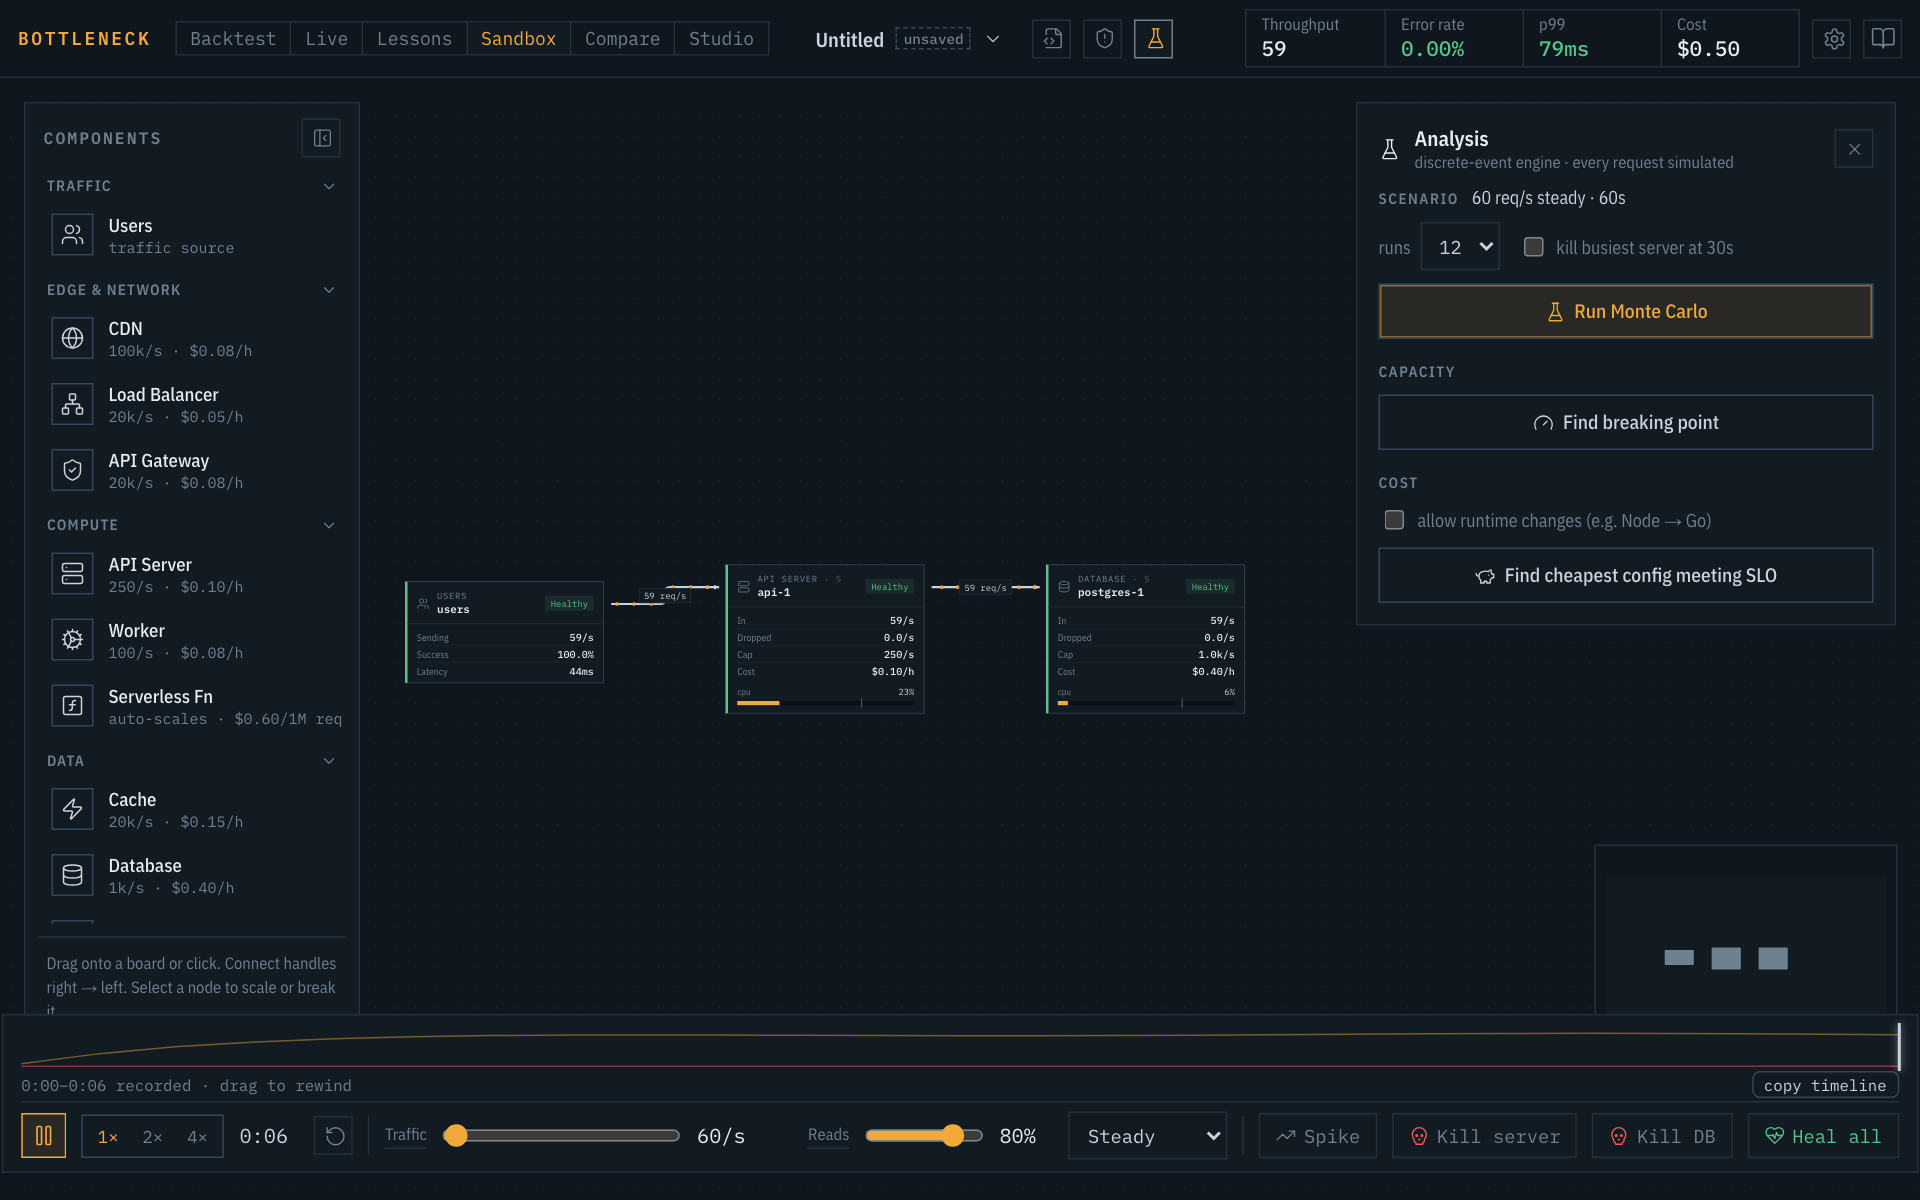
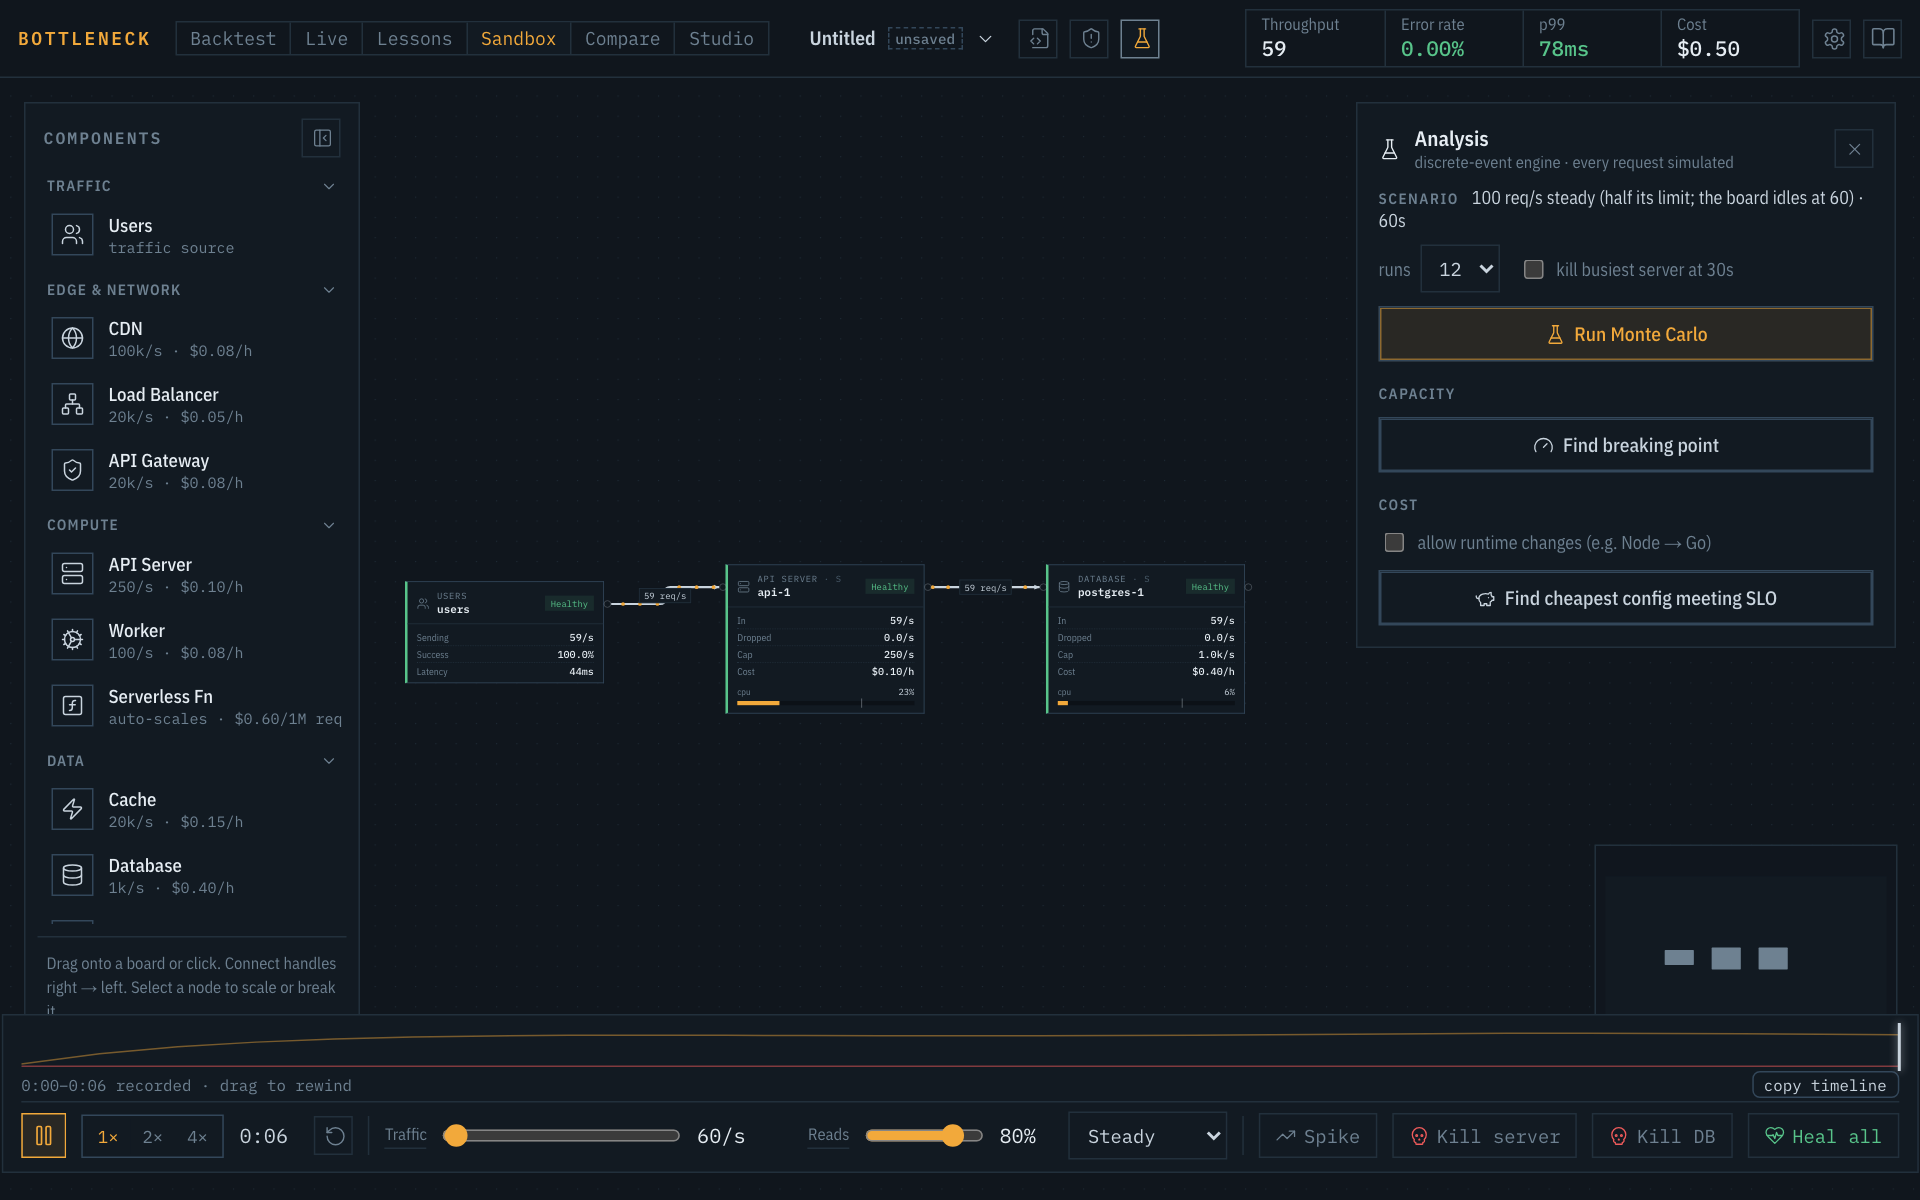
Analysis: runs at a meaningful load when the board idles
Monte Carlo and the cost optimizer ran at the board's idle 60 req/s, where every design meets
the SLO and the "cheapest config" was one instance that would collapse at real load. Below 100
req/s they now run at half the design's breaking point (fluid search, instant), and the
scenario line says so: "830 req/s steady (half its limit; the board idles at 60)".

Changed region(s): [[0.7188, 0.1542, 0.9688, 0.5242], [0.5625, 0.0, 0.625, 0.0617], [0.4375, 0.0308, 0.4688, 0.0617]]

diff --git a/public/docs/audit.html b/public/docs/audit.html
@@ -49,13 +49,13 @@
 </section>
 
 <section class="screen" data-shot="analysis">
-<figure class="shot"><div class="shot-frame"><a class="shot-full" href="shots/analysis.png" target="_blank" rel="noopener" title="Open full size"><img src="shots/analysis.png" width="1280" height="800" alt="Analysis — screenshot" loading="lazy"></a><a class="pin" href="#analysis-montecarlo" data-for="analysis-montecarlo" style="left:71.02%;top:25.96%" aria-label="Note 1">1</a><a class="pin" href="#analysis-breaking" data-for="analysis-breaking" style="left:71.02%;top:35.21%" aria-label="Note 2">2</a><a class="pin" href="#analysis-cheapest" data-for="analysis-cheapest" style="left:71.02%;top:47.96%" aria-label="Note 3">3</a></div></figure>
+<figure class="shot"><div class="shot-frame"><a class="shot-full" href="shots/analysis.png" target="_blank" rel="noopener" title="Open full size"><img src="shots/analysis.png" width="1280" height="800" alt="Analysis — screenshot" loading="lazy"></a><a class="pin" href="#analysis-montecarlo" data-for="analysis-montecarlo" style="left:71.02%;top:27.84%" aria-label="Note 1">1</a><a class="pin" href="#analysis-breaking" data-for="analysis-breaking" style="left:71.02%;top:37.09%" aria-label="Note 2">2</a><a class="pin" href="#analysis-cheapest" data-for="analysis-cheapest" style="left:71.02%;top:49.84%" aria-label="Note 3">3</a></div></figure>
 <div class="notes">
 <div>
 <h2>Analysis</h2>
 <p>The discrete-event engine: every request simulated, so tails, retry storms and breaker oscillation emerge rather than being approximated.</p>
 <ol class="pins">
-<li id="analysis-montecarlo" data-n="1"><h3>Monte Carlo</h3><p>Many seeded runs of the current traffic (optionally killing the busiest server halfway): p50, p99, p99.9, errors and cost with 95% confidence intervals, and the share of runs that meet the SLO.</p></li>
+<li id="analysis-montecarlo" data-n="1"><h3>Monte Carlo</h3><p>Many seeded runs of the board's traffic, or, when the board idles below 100 req/s, of half what the design can take (the scenario line says which), optionally killing the busiest server halfway: p50, p99, p99.9, errors and cost with 95% confidence intervals, and the share of runs that meet the SLO.</p></li>
 <li id="analysis-breaking" data-n="2"><h3>Breaking point</h3><p>The most req/s it serves within the SLO, and the component that limits it.</p></li>
 <li id="analysis-cheapest" data-n="3"><h3>Cheapest config meeting the SLO</h3><p>The optimizer resizes everything to the cheapest design that still meets the SLO, optionally changing language runtimes; <b>Apply to board</b> takes it.</p></li>
 </ol>

diff --git a/src/ui/AnalysisPanel.tsx b/src/ui/AnalysisPanel.tsx
@@ -6,6 +6,7 @@ import { scenarioDuration } from '../scenarios/scenarios';
 import type { Analysis } from '../sim/des/analyze';
 import type { OptimizeResult } from '../sim/optimize';
 import { analyzeInBrowser, breakingPointInBrowser, optimizeInBrowser } from '../sim/des/browserPool';
+import { breakingPoint } from '../sim/headless';
 
 const pct = (n: number) => `${(n * 100).toFixed(n > 0 && n < 0.01 ? 2 : 1)}%`;
 const ms = (n: number) => (n >= 1000 ? `${(n / 1000).toFixed(2)}s` : `${Math.round(n)}ms`);
@@ -26,14 +27,24 @@ function scenarioFor(b: BoardId, killMidRun: boolean) {
       slo,
     };
   }
+  // the board's idle trickle (below 100 req/s) would make every design look fine and every
+  // cost cut look safe: analyse at half of what the design can take instead, and say so
+  const rps = s.traffic >= 100 ? s.traffic : designLoad(b);
   return {
-    name: `${s.traffic.toLocaleString()} req/s steady${killMidRun ? ' + instance failure' : ''}`,
+    name: `${rps.toLocaleString()} req/s steady${rps !== s.traffic ? ` (half its limit; the board idles at ${s.traffic})` : ''}${killMidRun ? ' + instance failure' : ''}`,
     duration: 60,
-    rps: s.traffic,
+    rps,
     readRatio: s.readRatio,
     events: killMidRun ? [{ at: 30, action: { type: 'kill' as const, kind: 'server' as const, pick: 'busiest' as const }, note: 'busiest server instance dies' }] : [],
     slo,
   };
+}
+
+/** half the design's breaking point (fluid engine, fast), rounded to 10 req/s */
+function designLoad(b: BoardId): number {
+  const s = useSim.getState();
+  const bp = breakingPoint(specOf(b), { readRatio: s.readRatio, slo: { maxErrorRate: s.settings.sloErrorRate, maxP99Ms: s.settings.sloP99Ms } });
+  return Math.max(10, Math.round(bp.maxRps / 2 / 10) * 10);
 }
 
 const specOf = (b: BoardId) => {

diff --git a/docs-site/pages/audit.html b/docs-site/pages/audit.html
@@ -24,7 +24,7 @@
 <h2>Analysis</h2>
 <p>The discrete-event engine: every request simulated, so tails, retry storms and breaker oscillation emerge rather than being approximated.</p>
 <ol class="pins">
-<li data-pin="montecarlo"><h3>Monte Carlo</h3><p>Many seeded runs of the current traffic (optionally killing the busiest server halfway): p50, p99, p99.9, errors and cost with 95% confidence intervals, and the share of runs that meet the SLO.</p></li>
+<li data-pin="montecarlo"><h3>Monte Carlo</h3><p>Many seeded runs of the board's traffic, or, when the board idles below 100 req/s, of half what the design can take (the scenario line says which), optionally killing the busiest server halfway: p50, p99, p99.9, errors and cost with 95% confidence intervals, and the share of runs that meet the SLO.</p></li>
 <li data-pin="breaking"><h3>Breaking point</h3><p>The most req/s it serves within the SLO, and the component that limits it.</p></li>
 <li data-pin="cheapest"><h3>Cheapest config meeting the SLO</h3><p>The optimizer resizes everything to the cheapest design that still meets the SLO, optionally changing language runtimes; <b>Apply to board</b> takes it.</p></li>
 </ol>
